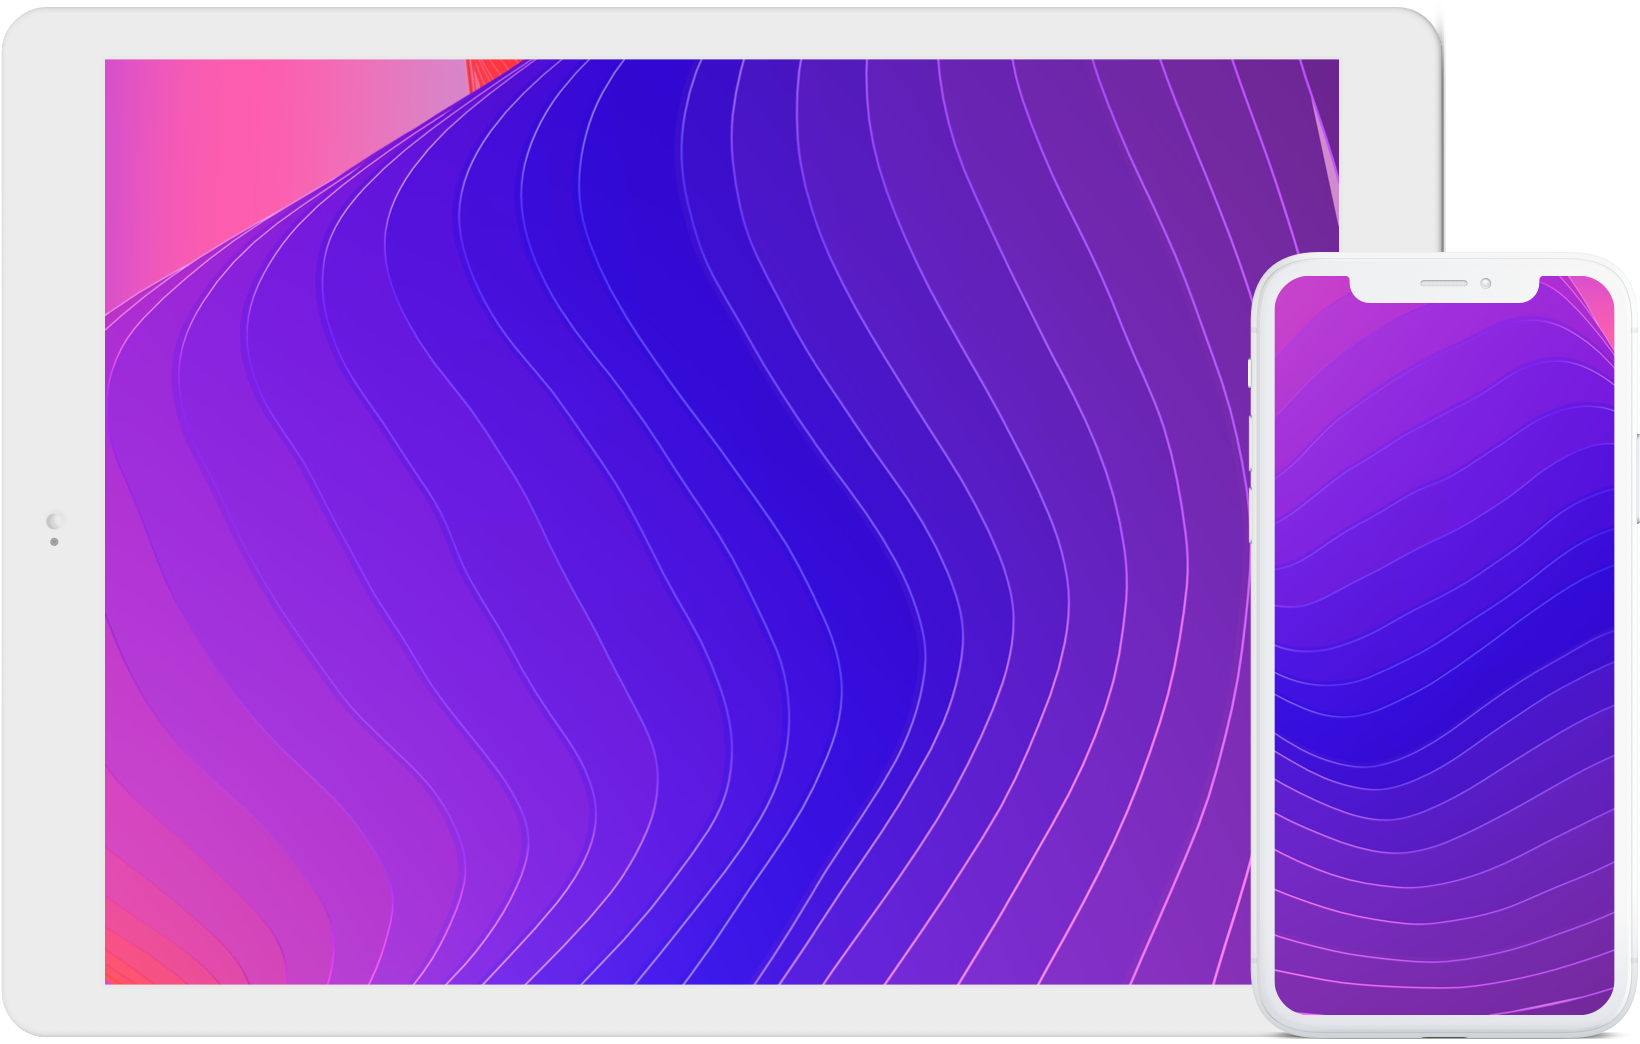
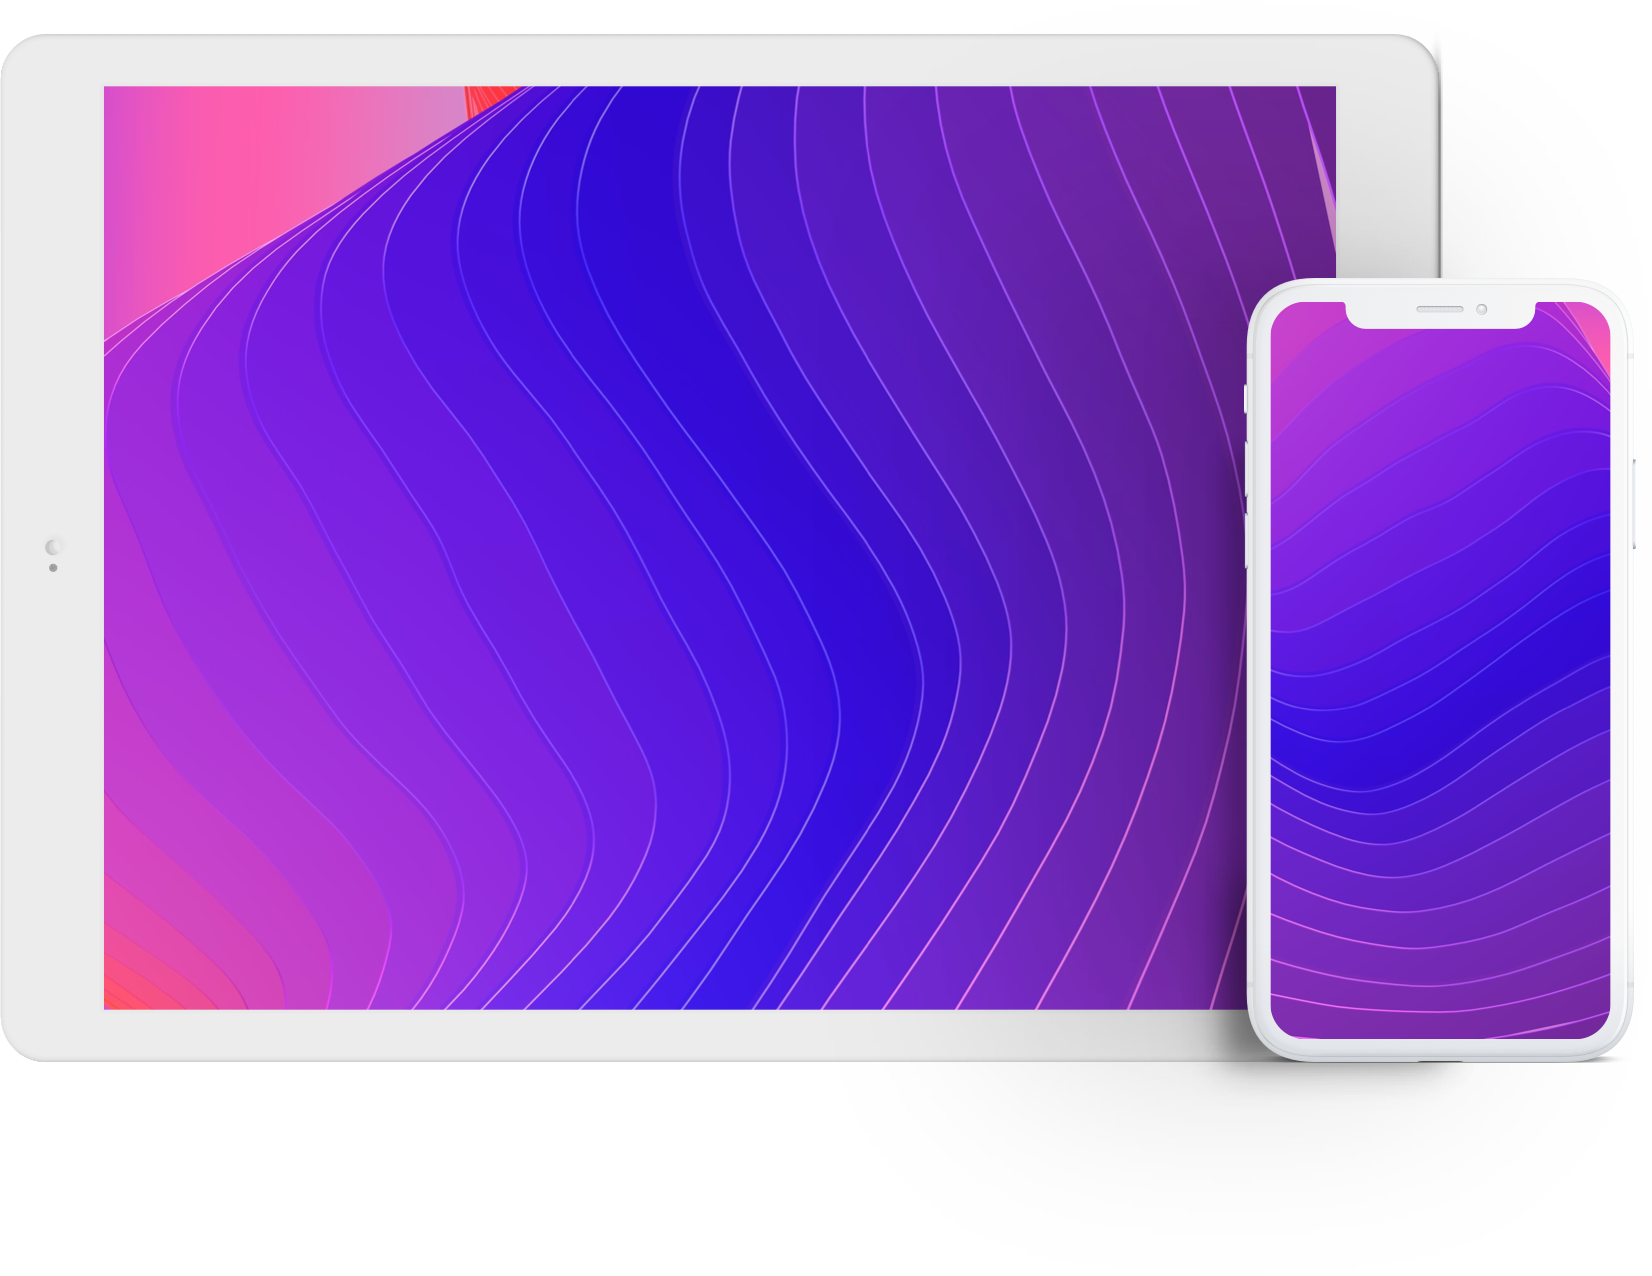
Updating image shadowing (required adjustment of the right positioning).

diff --git a/src/components/project/_project.scss b/src/components/project/_project.scss
@@ -104,7 +104,7 @@ $image-height: $size-11;
 
     .project--reverse & {
       @media screen and (min-width: map-get($breakpoints, "breakpoint-4")) {
-        right: 0;
+        right: 3rem;
       }
     }
   }
